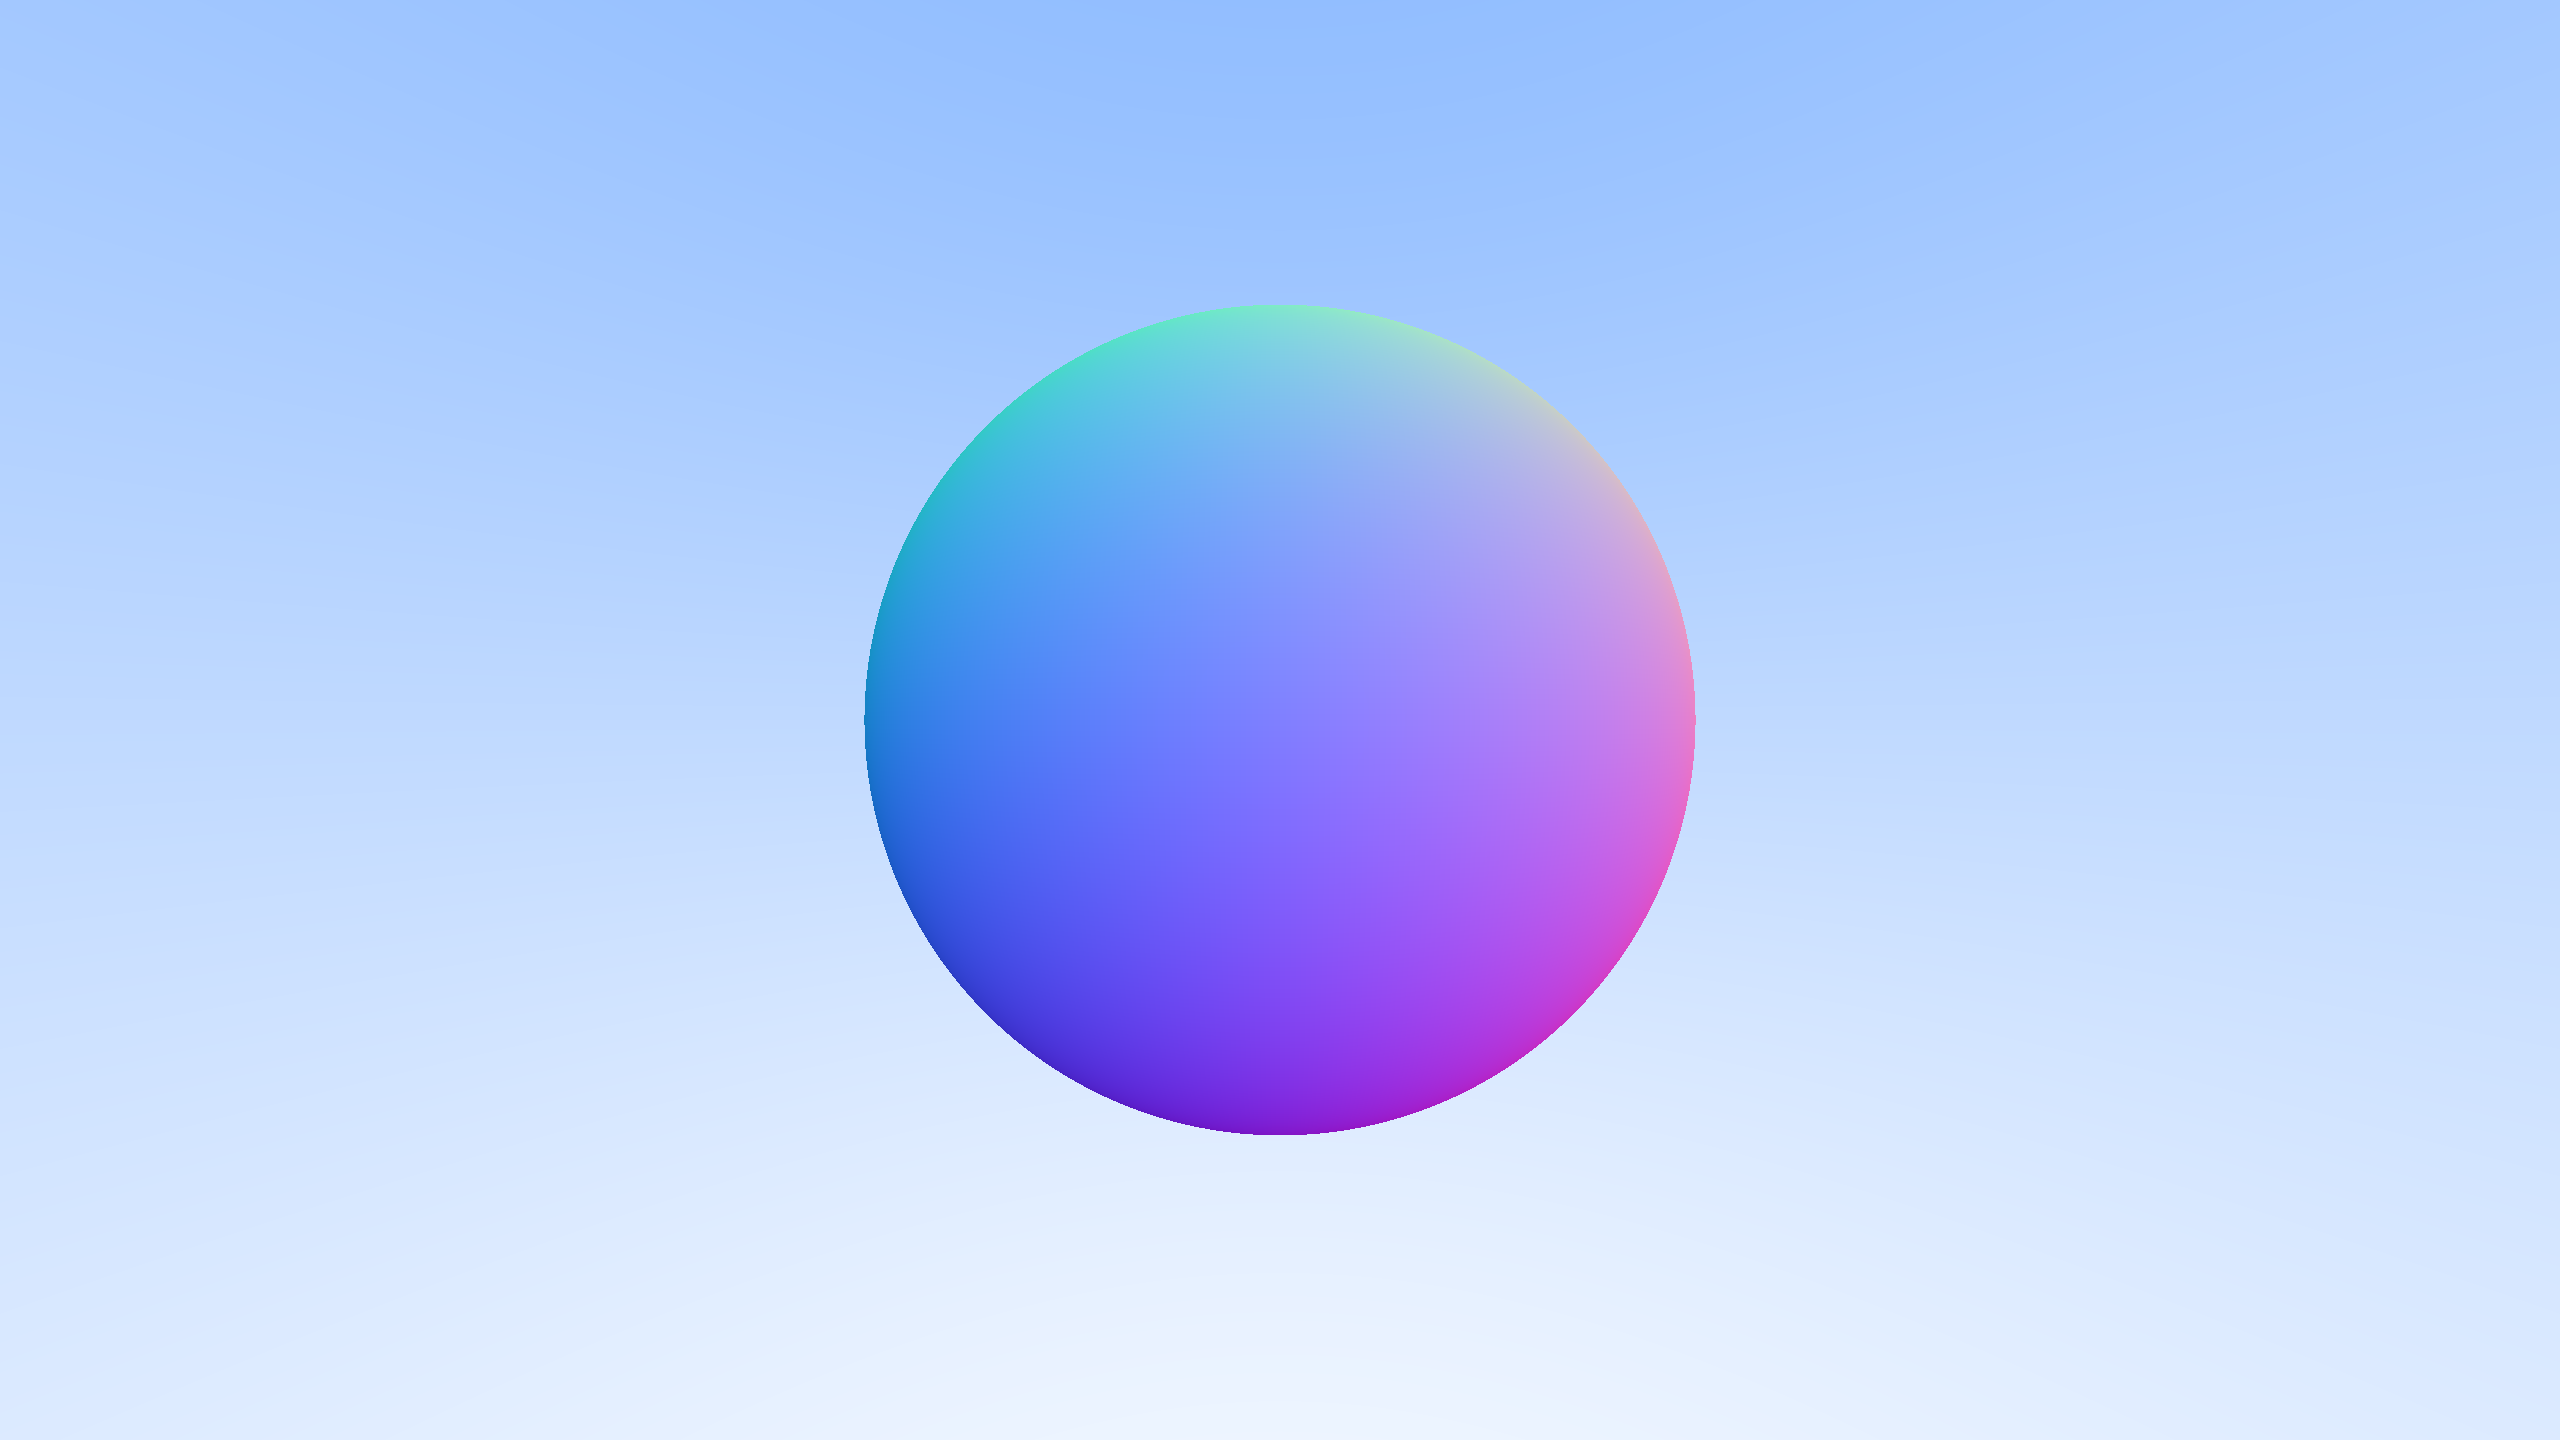
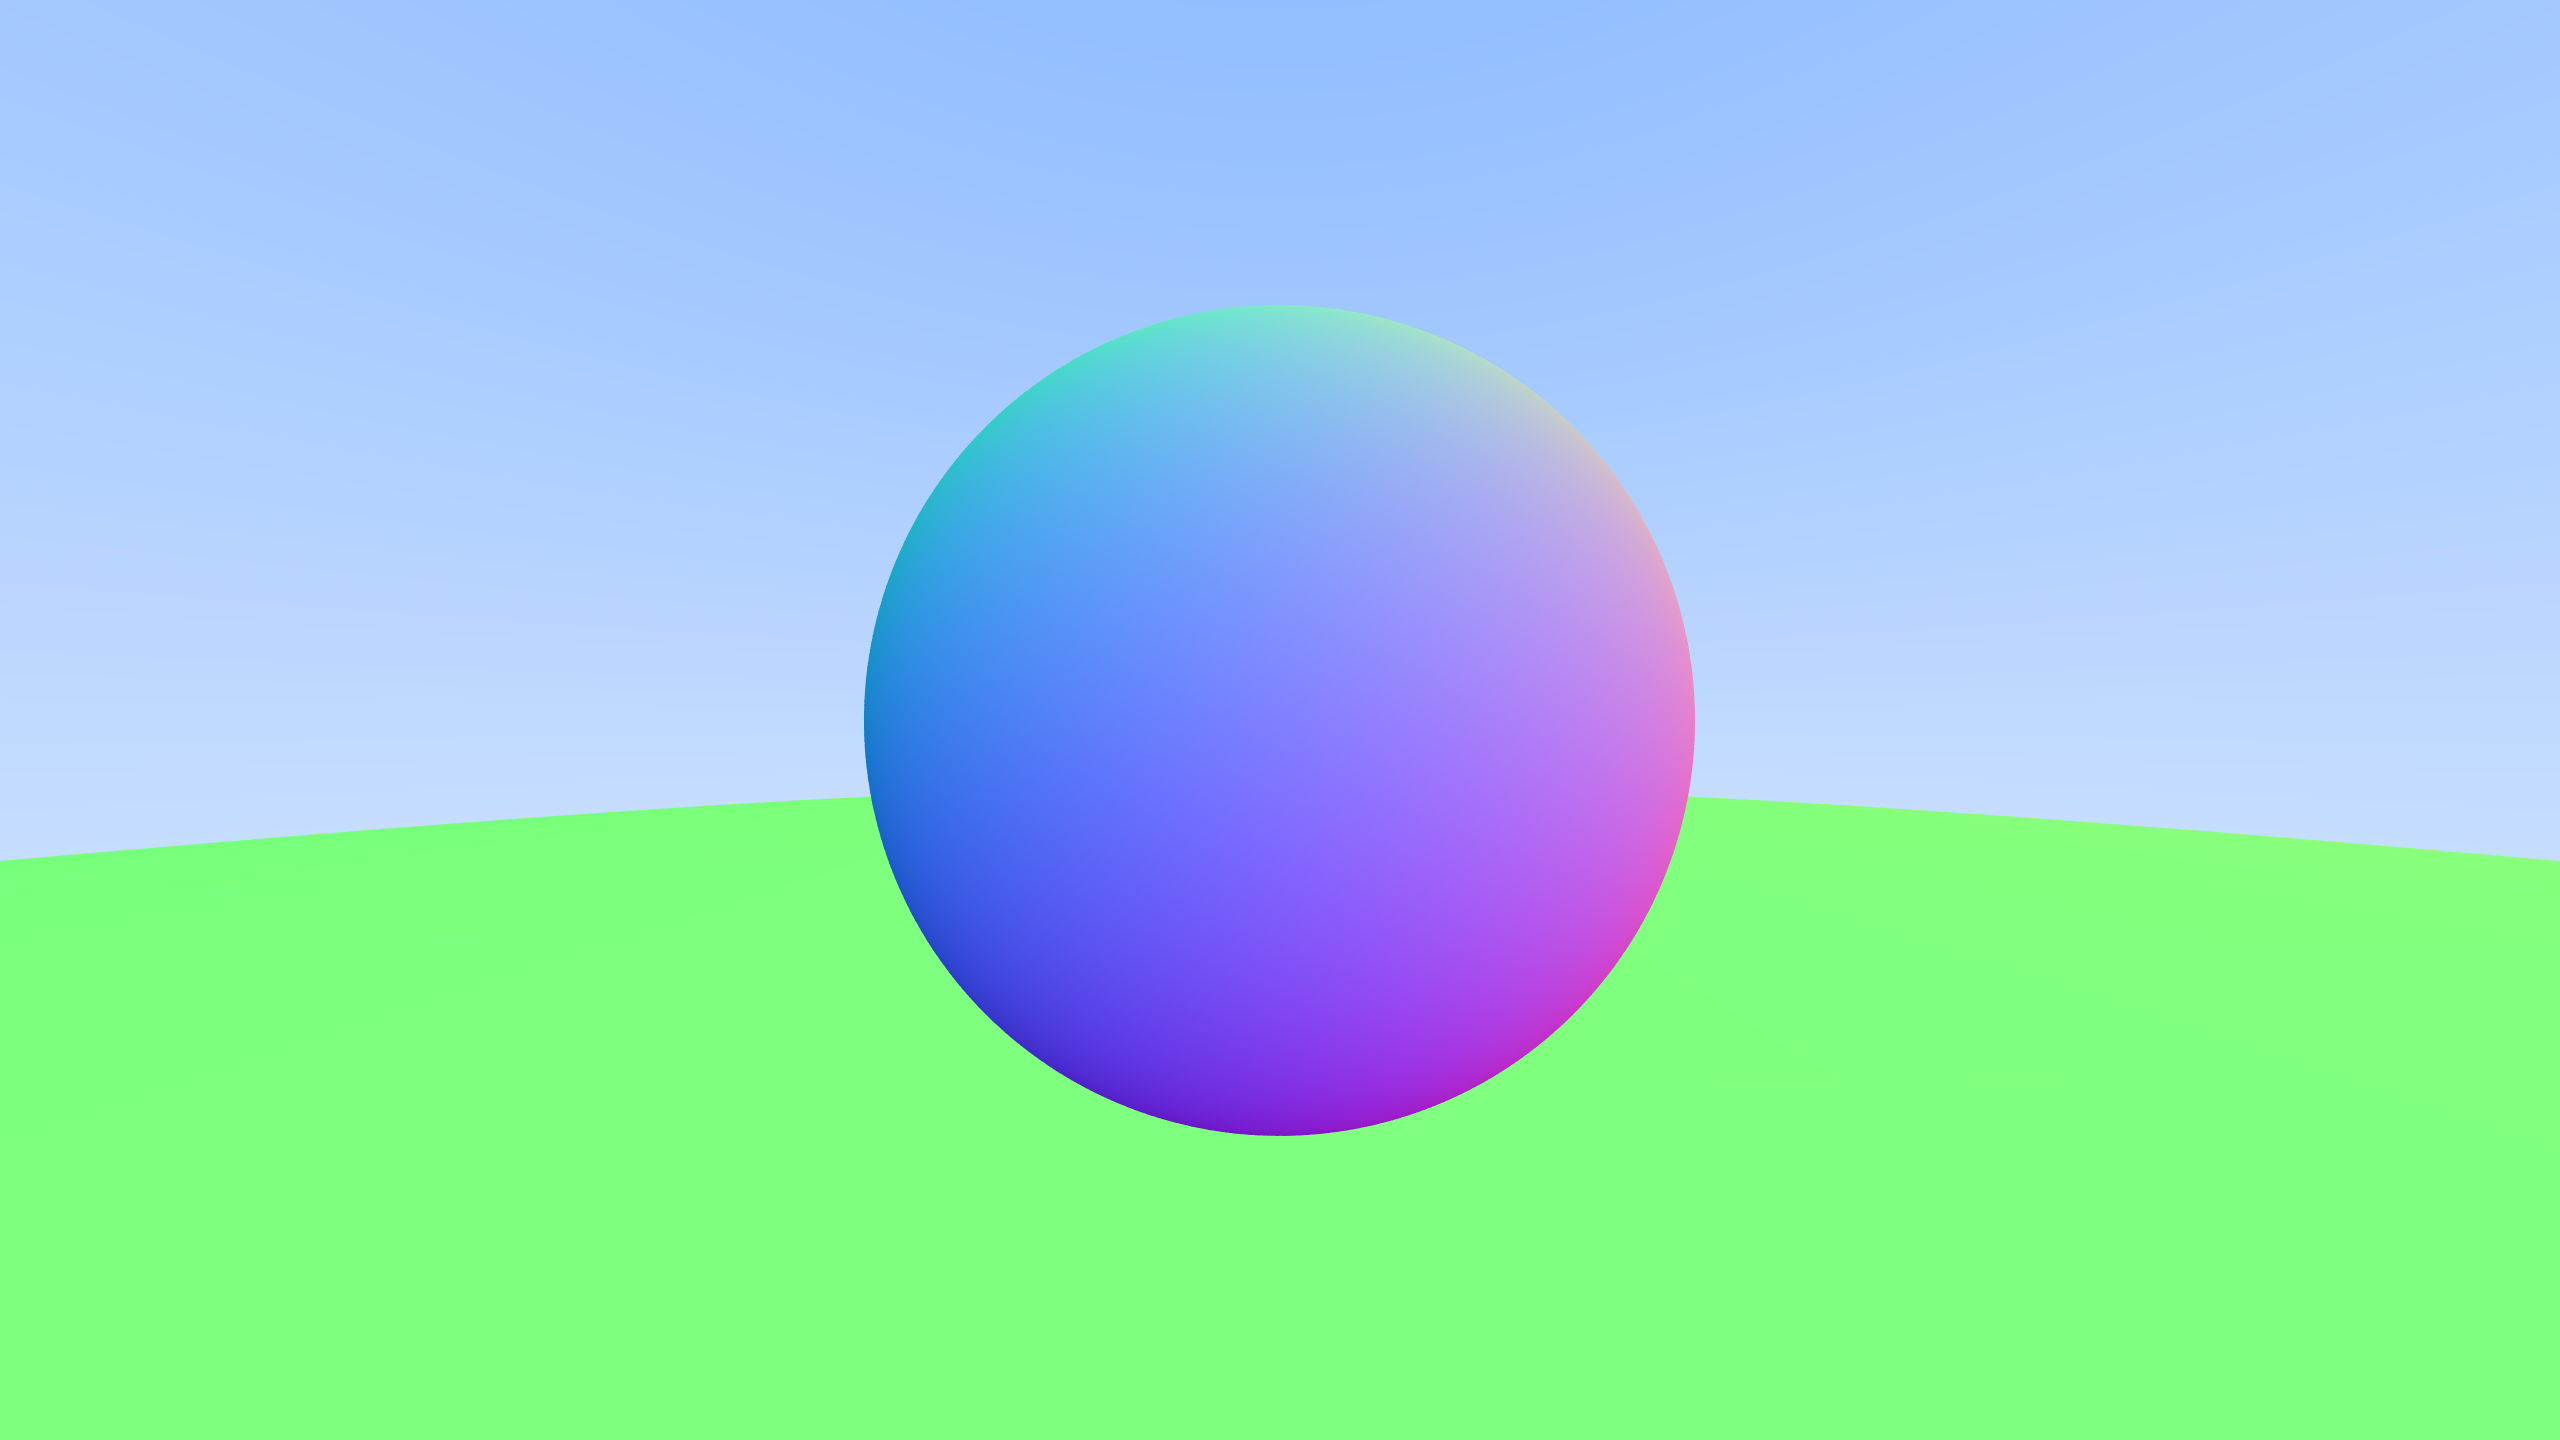
added anti-aliasing and world

diff --git a/src/main.rs b/src/main.rs
@@ -6,26 +6,34 @@ use primitives::{color::Color, vector::{Vector, Vec3}, ray::Ray};
 use objects::{image::Image, camera::Camera};
 use image::{RgbImage, Rgb, ImageBuffer};
 use rayon::prelude::*;
-use shapes::hittable::{Hittable, HitRecord};
+use shapes::{hittable::{Hittable, HitRecord}, sphere::Sphere};
 use std::{f64::{consts::PI, INFINITY}, sync::{Arc, Mutex}, time::{Instant}};
+use rand::prelude::*;
+
+const SAMPLES_PER_PIXEL: i32 = 30;
 
 fn main() {
 
-    let start = Instant::now();
     let image = Image::new_with_height(16.0 / 9.0, 1440);
     let camera = Camera::from_image(&image);
+    let mut world: Vec<Box<dyn Hittable + Send + Sync>> = Vec::new();
+    world.push(Box::new(Sphere::new(Vector::new(0.0, 0.0, -1.0), 0.5)));
+    world.push(Box::new(Sphere::new(Vector::new(0.0, -100.5, -1.0), 100.0)));
 
-    let rgb_image = single_threaded(&image, &camera);
+
+    let start = Instant::now();
+    let rgb_image = single_threaded(&image, &camera, &world);
     let duration_1 = start.elapsed();
 
-    rgb_image.save("image.png").unwrap();
+    rgb_image.save("image_aa.png").unwrap();
     
+    println!("single thread completed");
 
-    let start_2 = Instant::now();
     let image = Image::new_with_height(16.0 / 9.0, 1440);
     let camera = Camera::from_image(&image);
     
-    let rgb_image_2 = multi_threaded(&image, &camera);
+    let start_2 = Instant::now();
+    let rgb_image_2 = multi_threaded(&image, &camera, &world);
     let duration_2 = start_2.elapsed();
 
     rgb_image_2.lock().unwrap().save("image.png").unwrap();
@@ -34,22 +42,22 @@ fn main() {
     println!("Single-threaded: {:?}, Multi-threaded: {:?} ", duration_1, duration_2);
 }
 
-fn single_threaded(image: &Image, camera: &Camera) -> ImageBuffer<Rgb<u8>, Vec<u8>> {
+fn single_threaded(image: &Image, camera: &Camera, world: &Vec<Box<dyn Hittable + Send + Sync>>) -> ImageBuffer<Rgb<u8>, Vec<u8>> {
     let mut rgb_image = RgbImage::new(image.width as u32, image.height as u32);
 
     for j in (0..image.height).rev() {
         for i in 0..image.width {
-            let color = get_pixel_color(i, j, image, camera); 
-            rgb_image.put_pixel(i as u32, (image.height - 1 - j) as u32  , Rgb(color.pixels()));
+            let color = get_pixel_color(i, j, image, camera, world); 
+            rgb_image.put_pixel(i as u32, (image.height - 1 - j) as u32  , Rgb(color.pixels(SAMPLES_PER_PIXEL)));
         }
     }
 
     rgb_image
 }
 
-fn multi_threaded(image: &Image, camera: &Camera) -> Mutex<ImageBuffer<Rgb<u8>, Vec<u8>>> {
+fn multi_threaded(image: &Image, camera: &Camera, world: &Vec<Box<dyn Hittable + Send + Sync>>) -> Mutex<ImageBuffer<Rgb<u8>, Vec<u8>>> {
     let rgb_image = Mutex::new(RgbImage::new(image.width as u32, image.height as u32));
-
+    let world = Mutex::new(world);
     let _ = (0..image.height)
         .into_par_iter()
         .rev()
@@ -57,28 +65,29 @@ fn multi_threaded(image: &Image, camera: &Camera) -> Mutex<ImageBuffer<Rgb<u8>, 
             let _ = (0..image.width)
                 .into_par_iter()
                 .for_each(|i| {
-                    let color = get_pixel_color(i, j, image, camera); 
-                    rgb_image.lock().unwrap().put_pixel(i as u32, (image.height - 1 - j) as u32  , Rgb(color.pixels()));
+                    let color = get_pixel_color(i, j, image, camera, &world.lock().unwrap()); 
+                    rgb_image.lock().unwrap().put_pixel(i as u32, (image.height - 1 - j) as u32  , Rgb(color.pixels(SAMPLES_PER_PIXEL)));
                 });
         });
     
     rgb_image
 }
 
-fn get_pixel_color(i: i32, j: i32, image: &Image, camera: &Camera) -> Color {
-    let u = i as f64 / (image.width - 1) as f64;
-    let v = j as f64 / (image.height - 1) as f64;
-    let ray = Ray::new(camera.origin, camera.lower_left_corner + u * camera.horizontal + v * camera.vertical - camera.origin);
-    let color = ray_color(ray);
-
+fn get_pixel_color(i: i32, j: i32, image: &Image, camera: &Camera, world: &Vec<Box<dyn Hittable + Send + Sync>>) -> Color {
+    let mut color = Color::new(0.0, 0.0, 0.0);
+    for _ in 0.. SAMPLES_PER_PIXEL {
+        let u = (i as f64 + rand::thread_rng().gen::<f64>()) / (image.width - 1) as f64;
+        let v = (j as f64 + rand::thread_rng().gen::<f64>()) / (image.height - 1) as f64;
+        let ray = camera.get_ray(u, v);
+        color = color + ray_color(&ray, world);
+    }
     color
 }
 
-fn ray_color(ray: Ray) -> Color {
-    let t = hits_sphere(ray, Vector::new(0.0, 0.0, -1.0), 0.5);
-    if t > 0.0 {
-        let n = (ray.at(t) - Vector::new(0.0, 0.0, -1.0)).unit_vector();
-        return 0.5 * Color::new(n.x() + 1.0, n.y() + 1.0, n.z() + 1.0);
+fn ray_color(ray: &Ray, world: &Vec<Box<dyn Hittable + Send + Sync>>) -> Color {
+    let mut rec = HitRecord::new();
+    if hit(world, ray, 0.0, INFINITY, &mut rec) {
+        return 0.5 * (Color::new(1.0, 1.0, 1.0) + rec.normal.unwrap());
     }
 
     let unit_direction = ray.direction.unit_vector();
@@ -86,7 +95,7 @@ fn ray_color(ray: Ray) -> Color {
     return (1.0 - t) * Color::new(1.0, 1.0, 1.0) + t * Color::new(0.5, 0.7, 1.0);
 }
 
-fn hits_sphere(ray: Ray, center: Vector, radius: f64) -> f64 {
+fn hits_sphere(ray: &Ray, center: Vector, radius: f64) -> f64 {
     let oc = ray.origin - center;
     let a = ray.direction.length_squared();
     let half_b = oc.dot(ray.direction);
@@ -99,13 +108,13 @@ fn hits_sphere(ray: Ray, center: Vector, radius: f64) -> f64 {
     }
 }
 
-fn hit(objects: &Vec<Box<dyn Hittable>>,ray: &Ray, t_min: f64, t_max: f64, hit_record: &mut HitRecord) -> bool {
+fn hit(objects: &Vec<Box<dyn Hittable + Send + Sync>>,ray: &Ray, t_min: f64, t_max: f64, hit_record: &mut HitRecord) -> bool {
     let mut temp_record = HitRecord::new();
     let mut hit_anything = false;
     let mut closest = t_max;
 
     for object in objects {
-        if object.hit(*ray, t_min, closest, &mut temp_record) {
+        if object.hit(ray, t_min, closest, &mut temp_record) {
             hit_anything = true;
             closest = temp_record.t.unwrap();
             *hit_record = temp_record;

diff --git a/src/primitives/color.rs b/src/primitives/color.rs
@@ -1,10 +1,18 @@
 use std::ops;
 
+use super::vector::{Vector, Vec3};
+
 #[derive(Debug, Clone, Copy, PartialEq)]
 pub struct Color {
     r: f64,
     g: f64,
     b: f64,
+}
+
+fn clamp(x: f64, min: f64, max: f64) -> f64 {
+    if x < min {return min;}
+    if x > max {return max;}
+    x
 }
 
 impl Color {
@@ -25,11 +33,15 @@ impl Color {
     }
 
     pub fn write_color(&self) -> String {
-        format!("{} {} {}\n", (255.999 * self.r) as i32, (255.999 * self.g) as i32, (255.999 * self.b) as i32)
+        format!("{} {} {}\n", (256.0 * clamp(self.r, 0.0, 0.999)) as u8, (256.0 * clamp(self.g, 0.0, 0.999)) as u8, (256.0 * clamp(self.b, 0.0, 0.999)) as u8)
     }
 
-    pub fn pixels(&self) -> [u8; 3] {
-        [(255.999 * self.r) as u8, (255.999 * self.g) as u8, (255.999 * self.b) as u8]
+    pub fn pixels(&self, samples_per_pixel: i32) -> [u8; 3] {
+        let r = self.r / samples_per_pixel as f64;
+        let g = self.g / samples_per_pixel as f64;
+        let b = self.b / samples_per_pixel as f64;
+
+        [(256.0 * clamp(r, 0.0, 0.999)) as u8, (256.0 * clamp(g, 0.0, 0.999)) as u8, (256.0 * clamp(b, 0.0, 0.999)) as u8]
     }
 }
 
@@ -41,6 +53,18 @@ impl ops::Add<Color> for Color {
             r: self.r + rhs.r,
             g: self.g + rhs.g,
             b: self.b + rhs.b,
+        }
+    }
+}
+
+impl ops::Add<Vector> for Color {
+    type Output = Color;
+
+    fn add(self, rhs: Vector) -> Color {
+        Color {
+            r: self.r + rhs.x(),
+            g: self.g + rhs.y(),
+            b: self.b + rhs.z(),
         }
     }
 }
